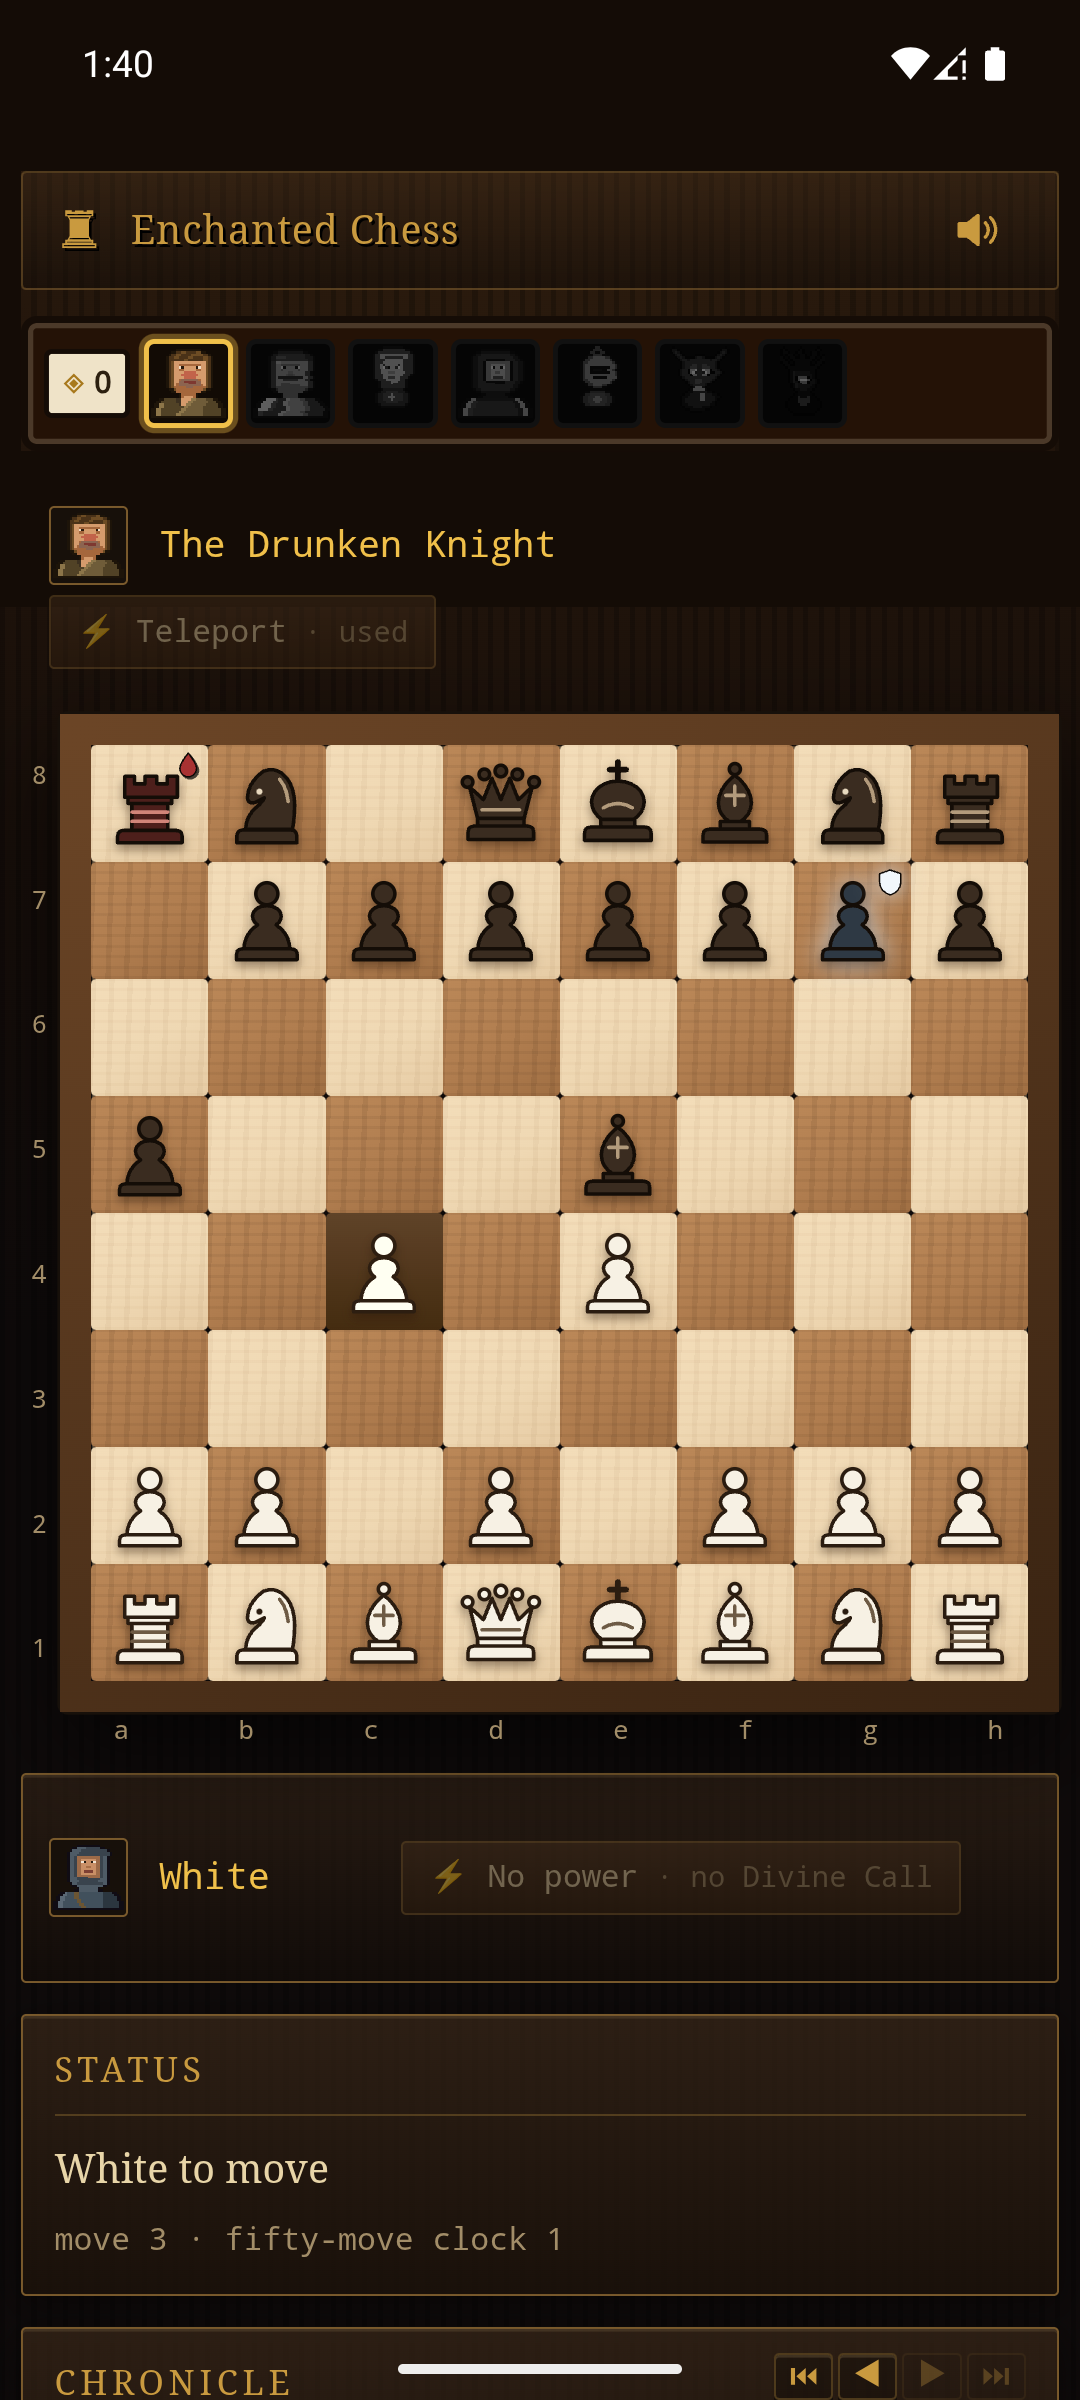
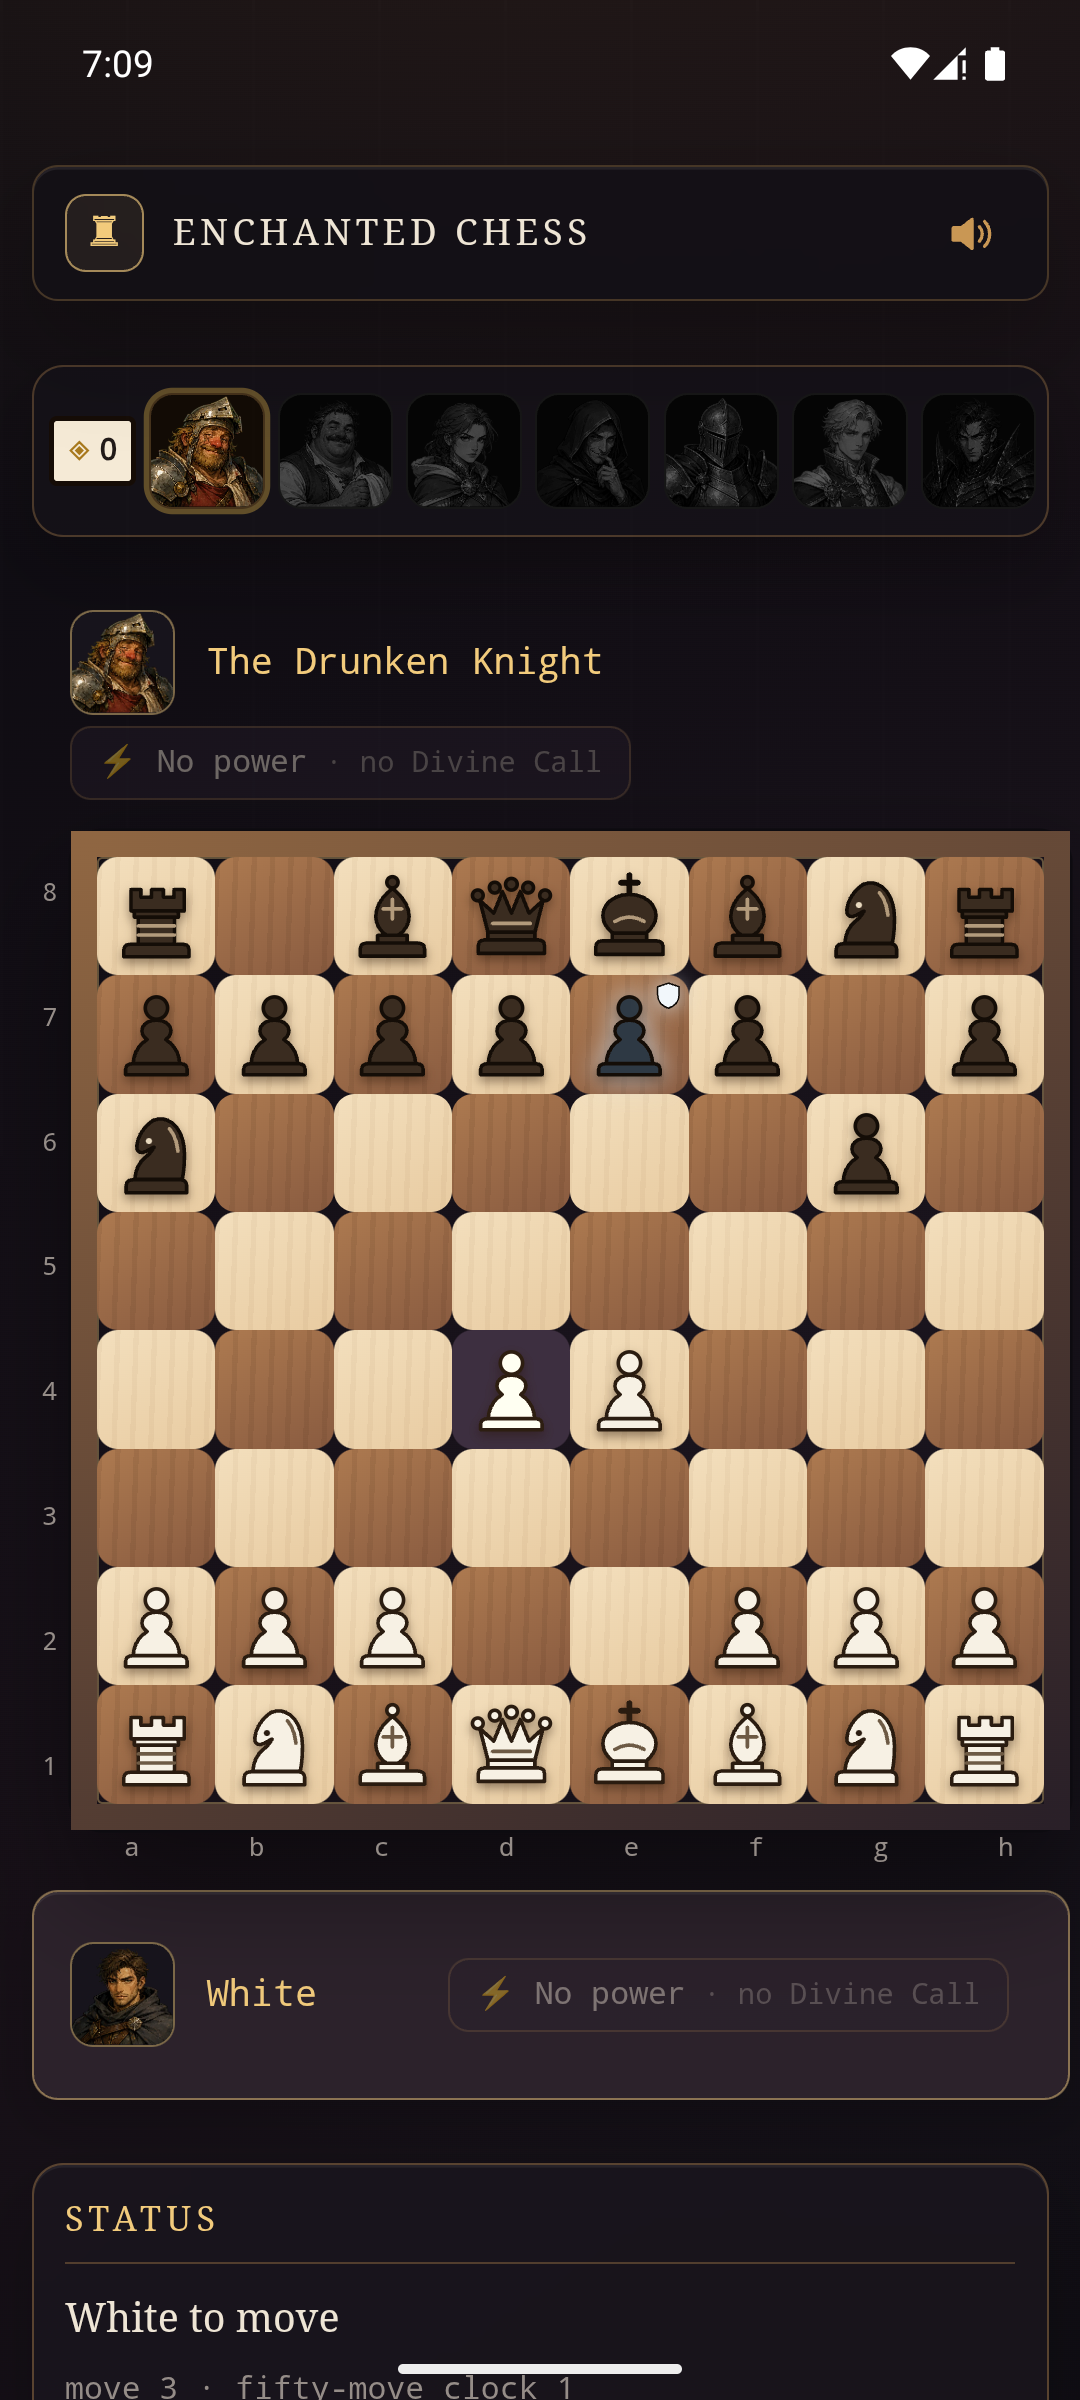
Reshoot the store screenshots against the redesigned UI
The listing showed a game two designs old: the flat card grid, the narrow board,
the old seat rail. The screenshots are the only part of a store page a browsing
player actually reads, and mine were advertising something that no longer installs.

Recaptured on the emulator: the inn, the road with its portrait cards, the reveal,
and a live board mid-game with the seat rail across the top and a Taunt shield on
e7. The reveal shot doubles as evidence the new economy is live — White at 0/1
spent with one in reserve, the Drunken Knight at 1/10 with "This King brings no
Divine Call at all" underneath him.

Claude-Session: https://claude.ai/code/session_01UzyxiQ4mqD7YrUNtvPFFmW

diff --git a/play/listing.md b/play/listing.md
@@ -154,7 +154,7 @@ sips -z 512 512 media/logo.png --out play/icon-512.png
 | `screenshots/02-the-road.png` | Phone screenshot — the seven seats of the campaign |
 | `screenshots/03-the-open-board.png` | Phone screenshot — both loadouts revealed before move one |
 | `screenshots/04-loadout.png` | Phone screenshot — the builder, the ten-point budget and the cost maths |
-| `screenshots/05-the-shelf.png` | Phone screenshot — the whole shelf, Herald and Squire side by side |
+| `screenshots/05-the-shelf.png` | Phone screenshot — the inn, where every walk starts |
 | `screenshots-tablet/01-the-board.png` | Tablet screenshot — the three-column board layout |
 | `screenshots-tablet/02-the-road.png` | Tablet screenshot — the seven seats, two columns |
 | `screenshots-tablet/03-rules.png` | Tablet screenshot — the Rules, set as a page |
